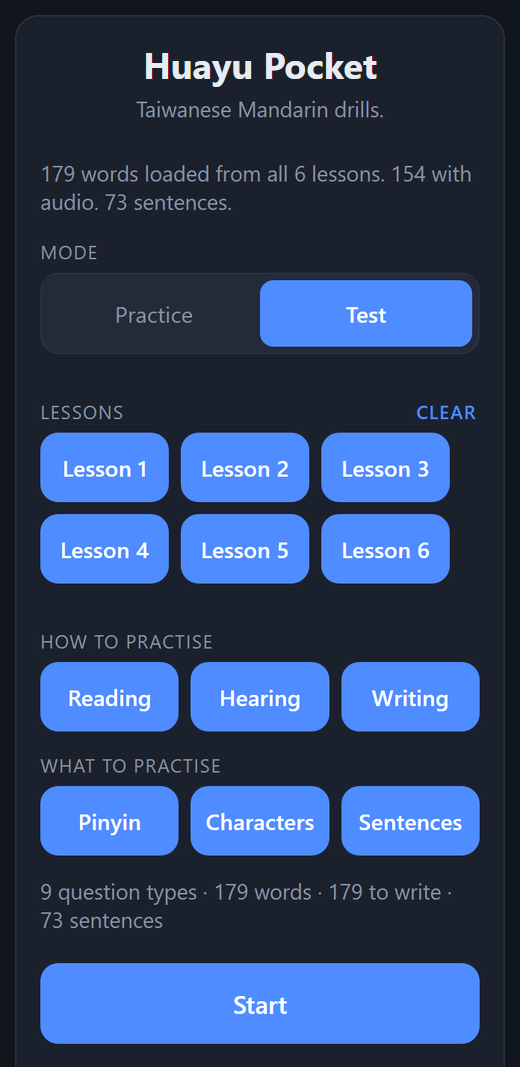
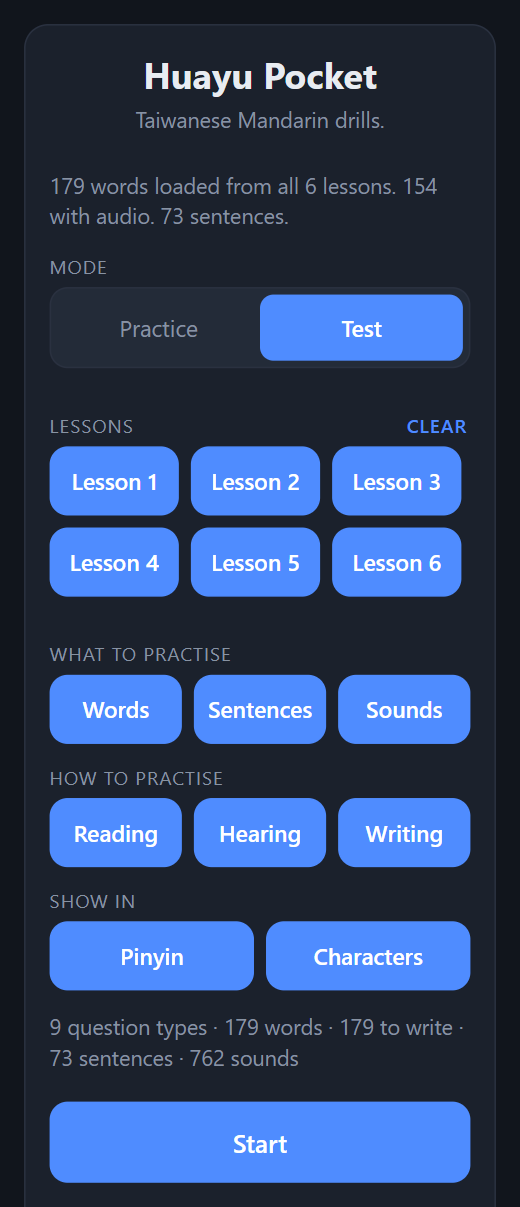
Project page: new start-screen screenshot with the three toggle rows

diff --git a/index.html b/index.html
@@ -144,7 +144,7 @@
 
 <div class="shots">
   <figure>
-    <img src="assets/start.png" alt="The start screen: a Test/Practice switch, six lesson chips, and toggles for Reading, Hearing, Writing, Pinyin, Characters and Sentences." loading="lazy">
+    <img src="assets/start.png" alt="The start screen: a Test/Practice switch, six lesson chips, and three rows of toggles — what to practise (Words, Sentences, Sounds), how (Reading, Hearing, Writing) and show in (Pinyin, Characters)." loading="lazy">
     <figcaption>Pick lessons and what to drill</figcaption>
   </figure>
   <figure>
